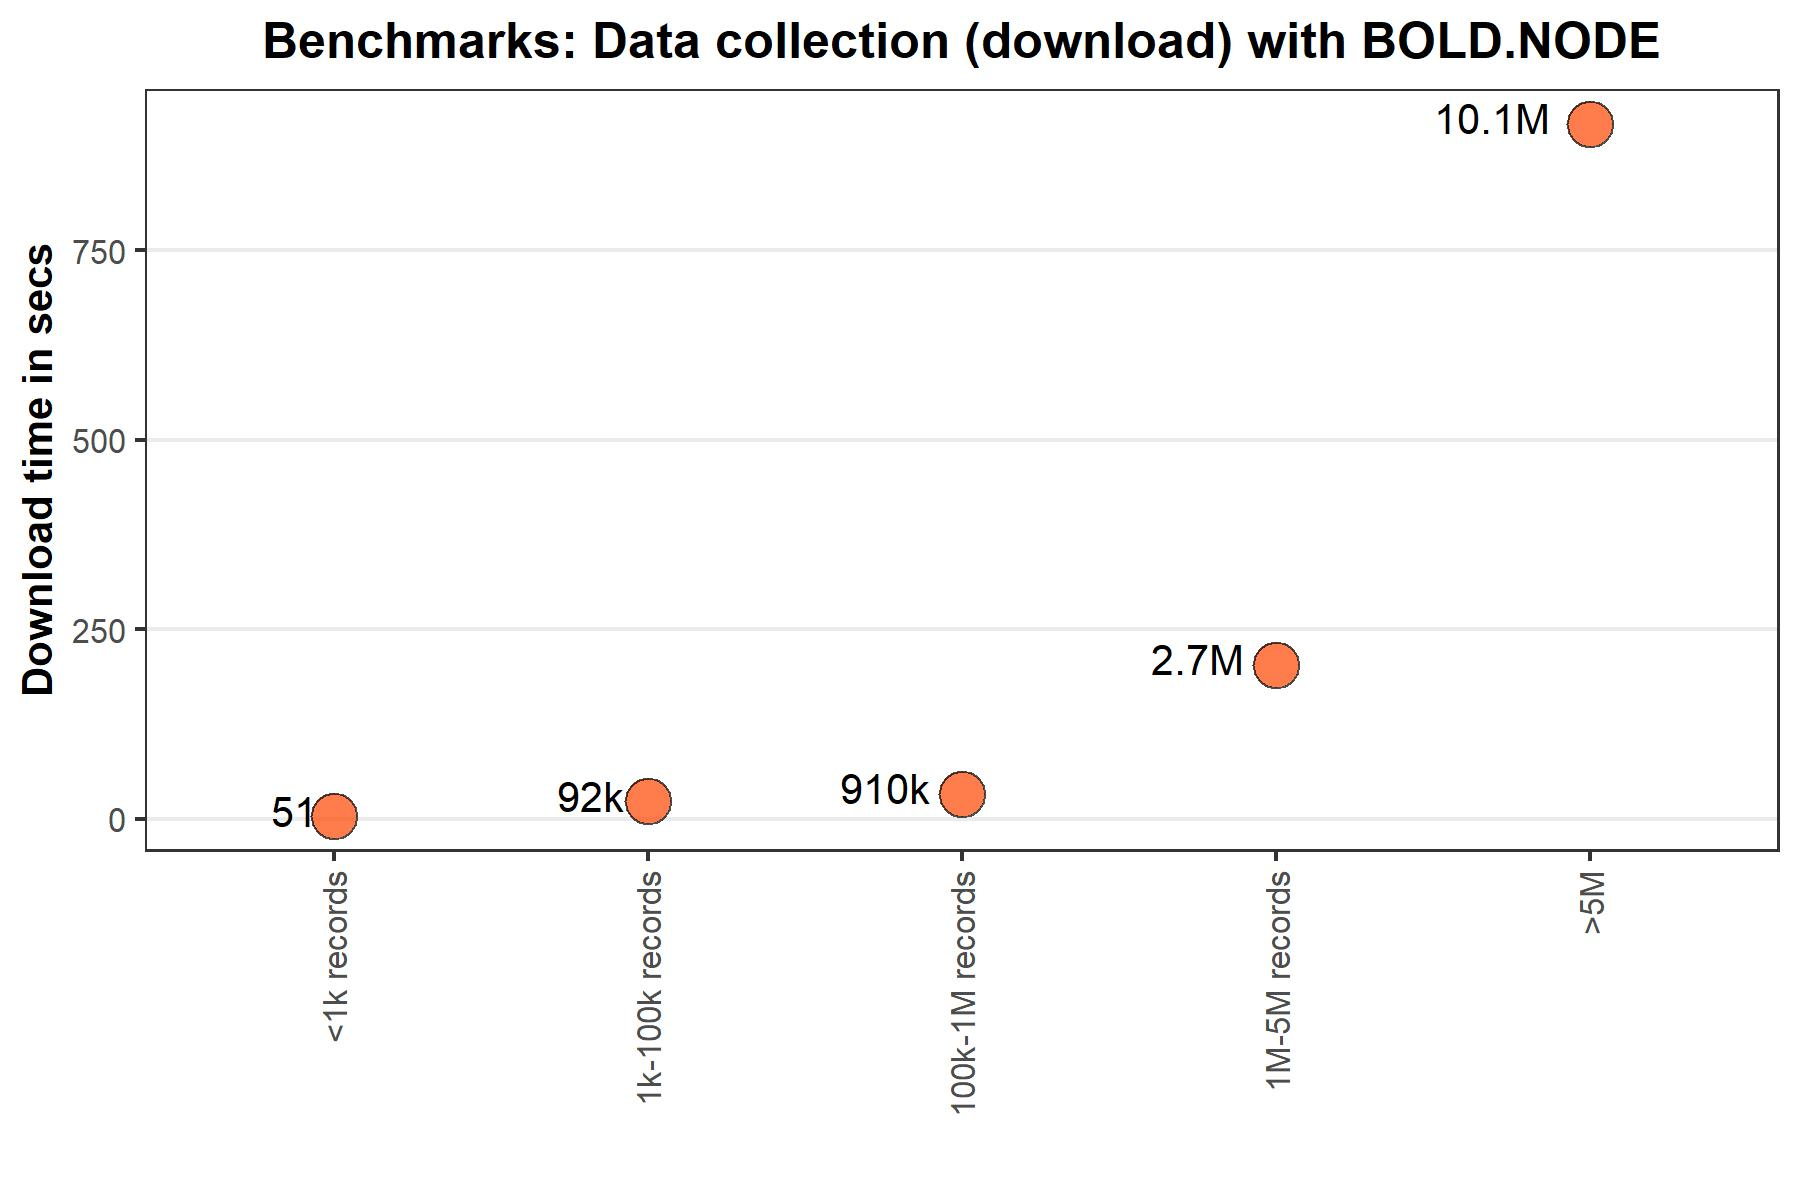
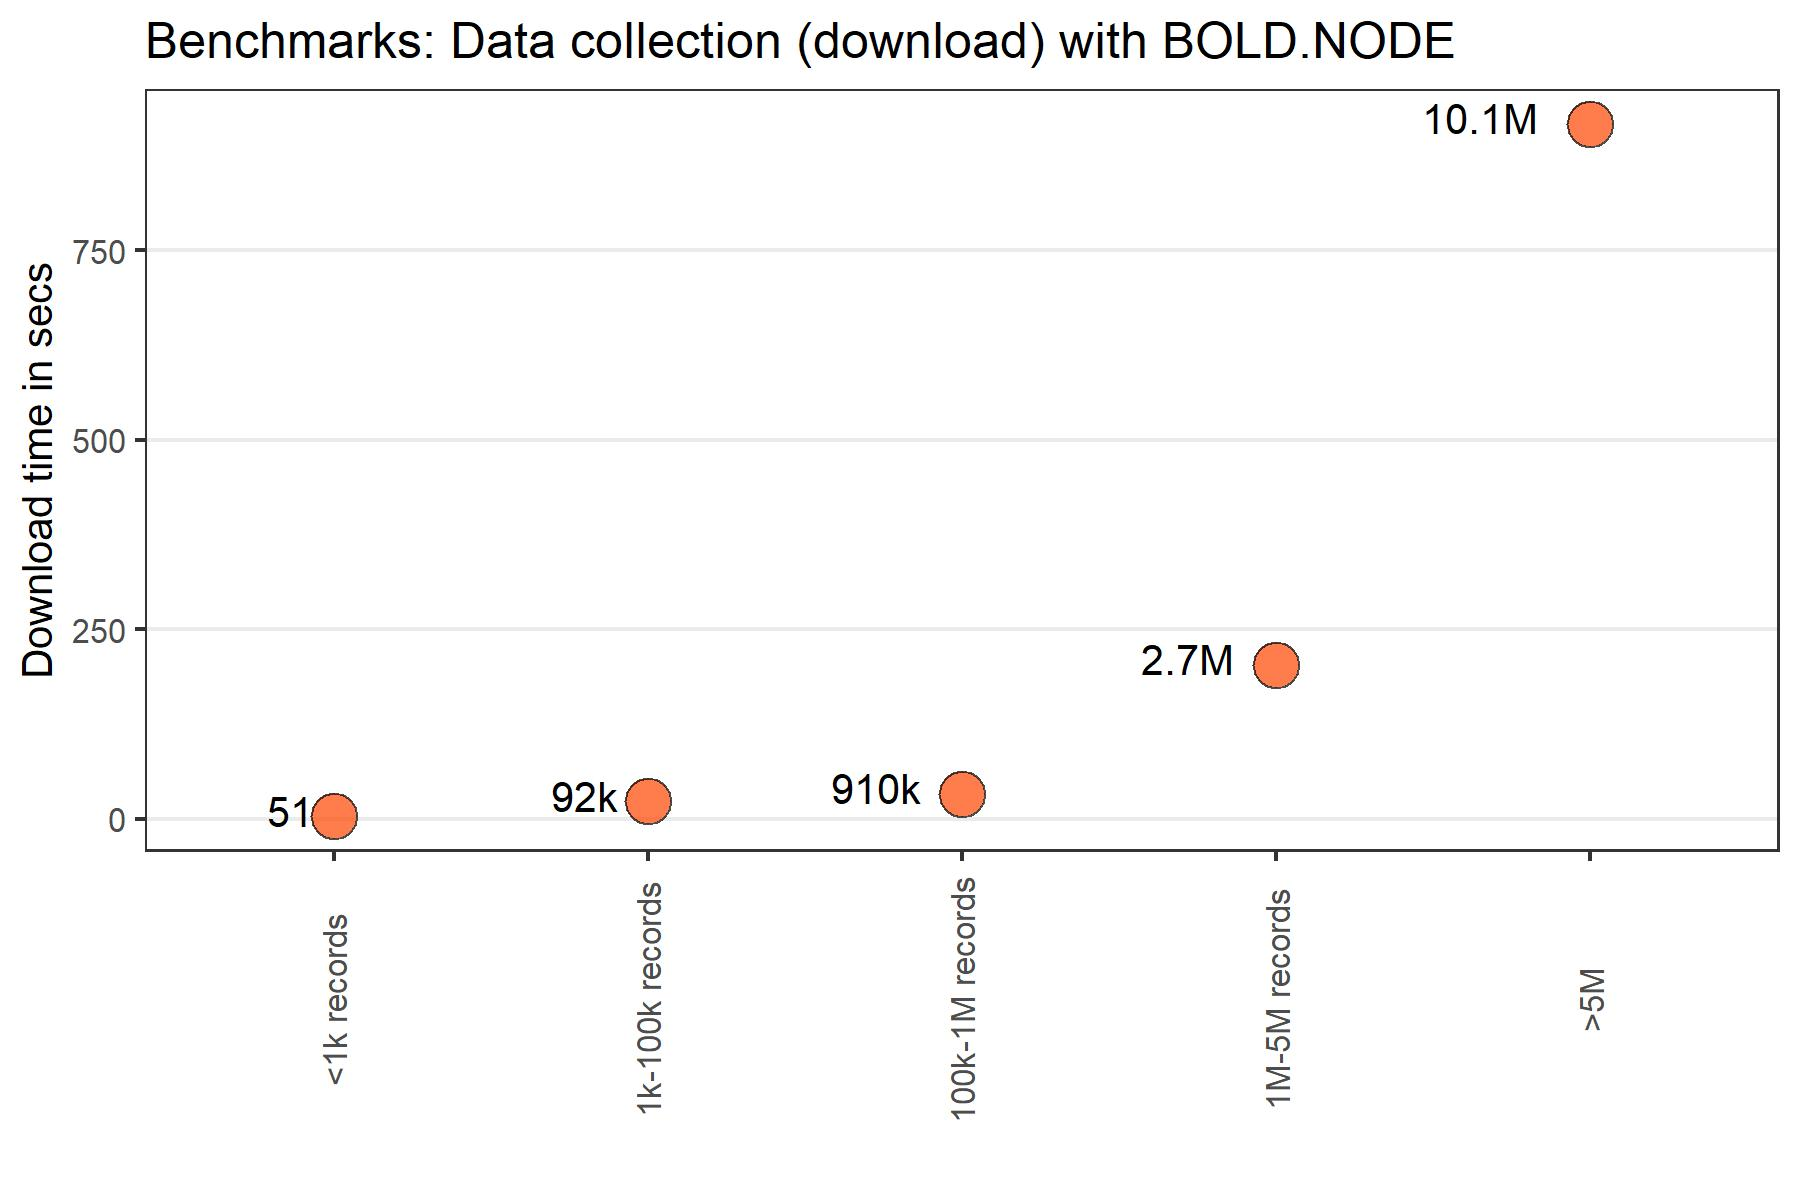
update readme

diff --git a/README.md b/README.md
@@ -169,17 +169,15 @@ ggplot(benchmarks,
     color = "black",
     alpha = 0.7
   ) +
-  geom_text(aes(label = exact_records), vjust = 0.3, hjust = 1.35)+
+  geom_text(aes(label = exact_records), vjust = 0.3, hjust = 1.45)+
   labs(
     x = "",
     y = "Download time in secs",
     title = "Benchmarks: Data collection (download) with BOLD.NODE") +
   theme_bw(base_size = 10) +
-  theme(axis.text.x = element_text(angle = 90, vjust = 0.5, hjust = 1),
+  theme(axis.text.x = element_text(angle = 90, vjust = 0.5, hjust = 0.5),
     panel.grid.minor = element_blank(),
-    panel.grid.major.x = element_blank(),
-    axis.title = element_text(face = "bold"),
-    plot.title = element_text(face = "bold", hjust = 0.5)) 
+    panel.grid.major.x = element_blank()) 
 #> `geom_line()`: Each group consists of only one observation.
 #> ℹ Do you need to adjust the group aesthetic?
 ```
